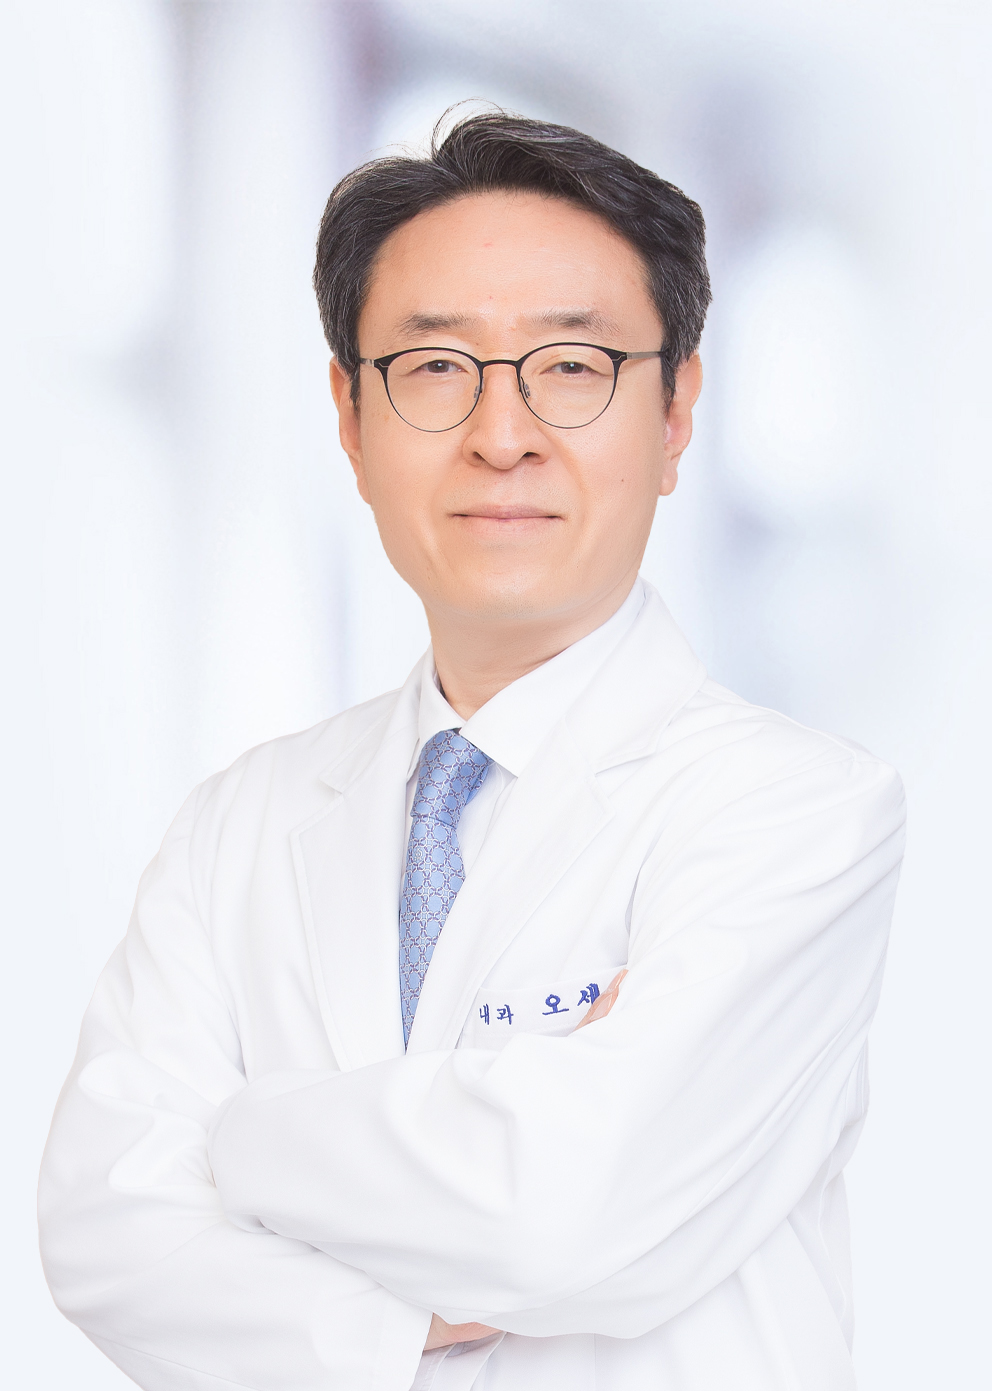
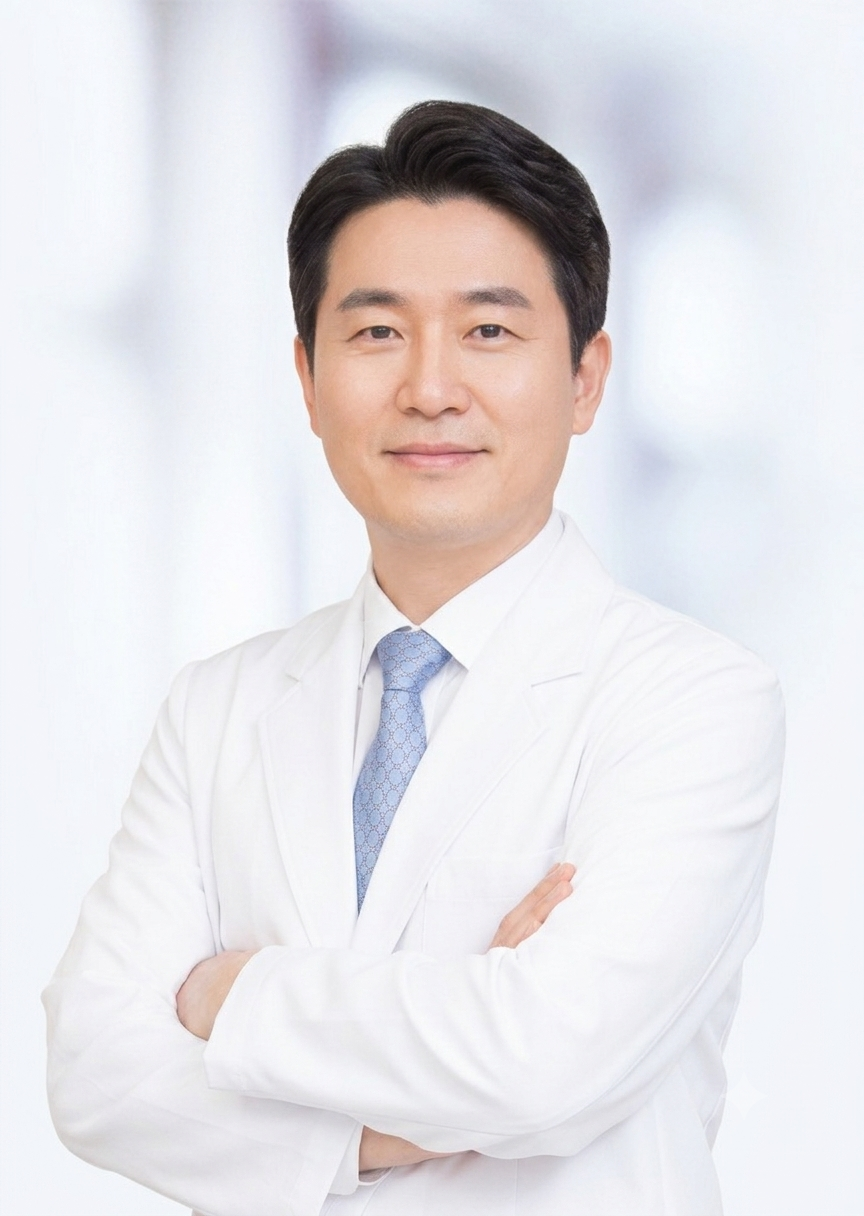
이미지 수정

diff --git a/src/main/webapp/resources/js/appointment.js b/src/main/webapp/resources/js/appointment.js
@@ -425,7 +425,7 @@ function sendRequestAppointment() {
     form.append($("<input>", { type: "hidden", name: "appointmentTime",  value: $.trim(appointmentTime) }));
     form.append($("<input>", { type: "hidden", name: "requirement",      value: $("#requireTa").val() }));
     form.append($("<input>", { type: "hidden", name: "appointmentNo",    value: getAppointmentNo() }));
-	console.log(getAppointmentNo());
+	
     $("body").append(form);
     form.submit();
 }
